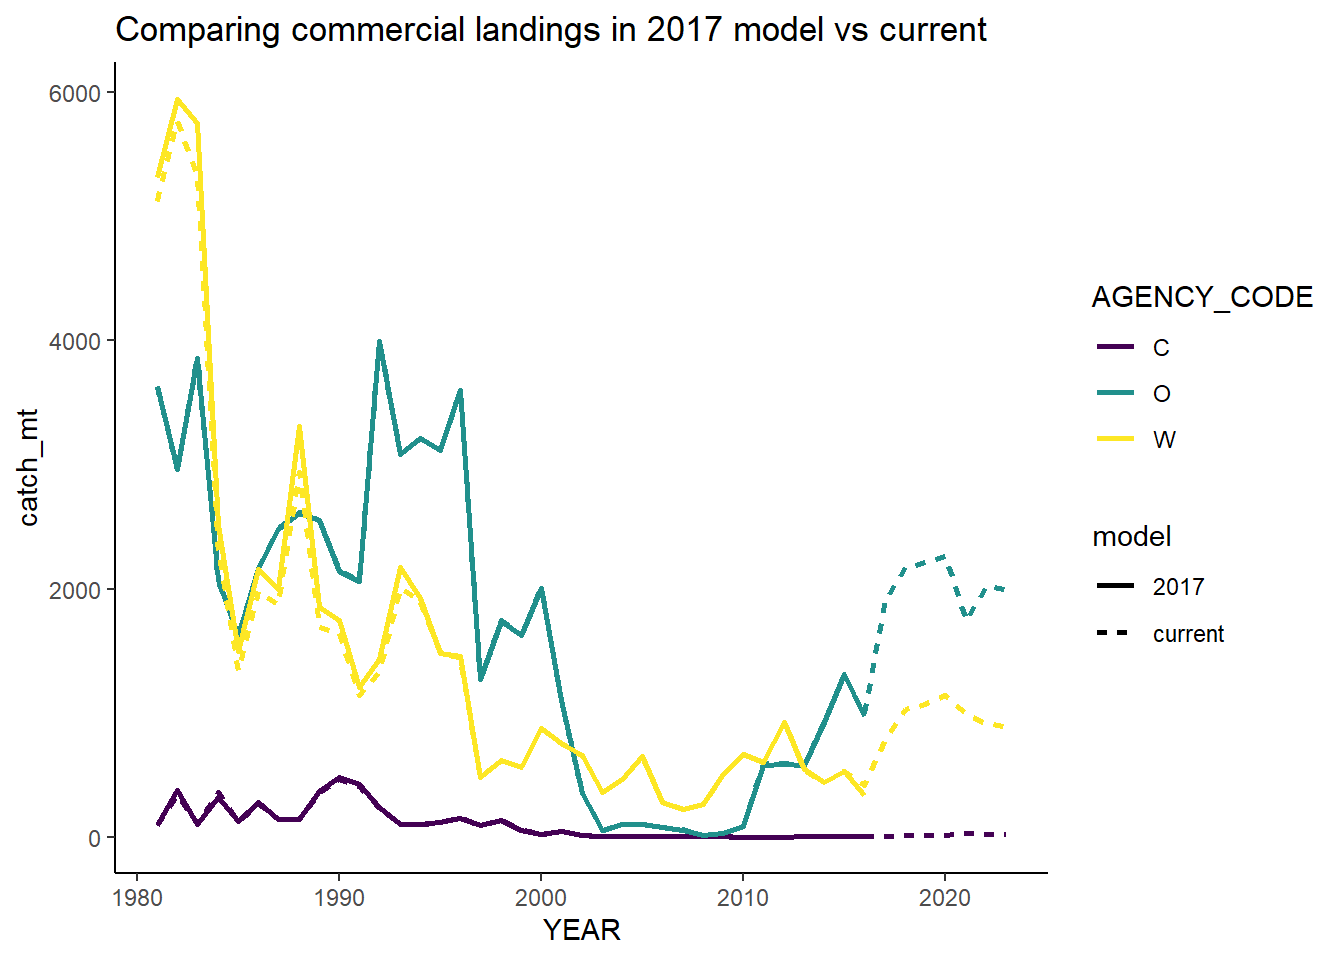
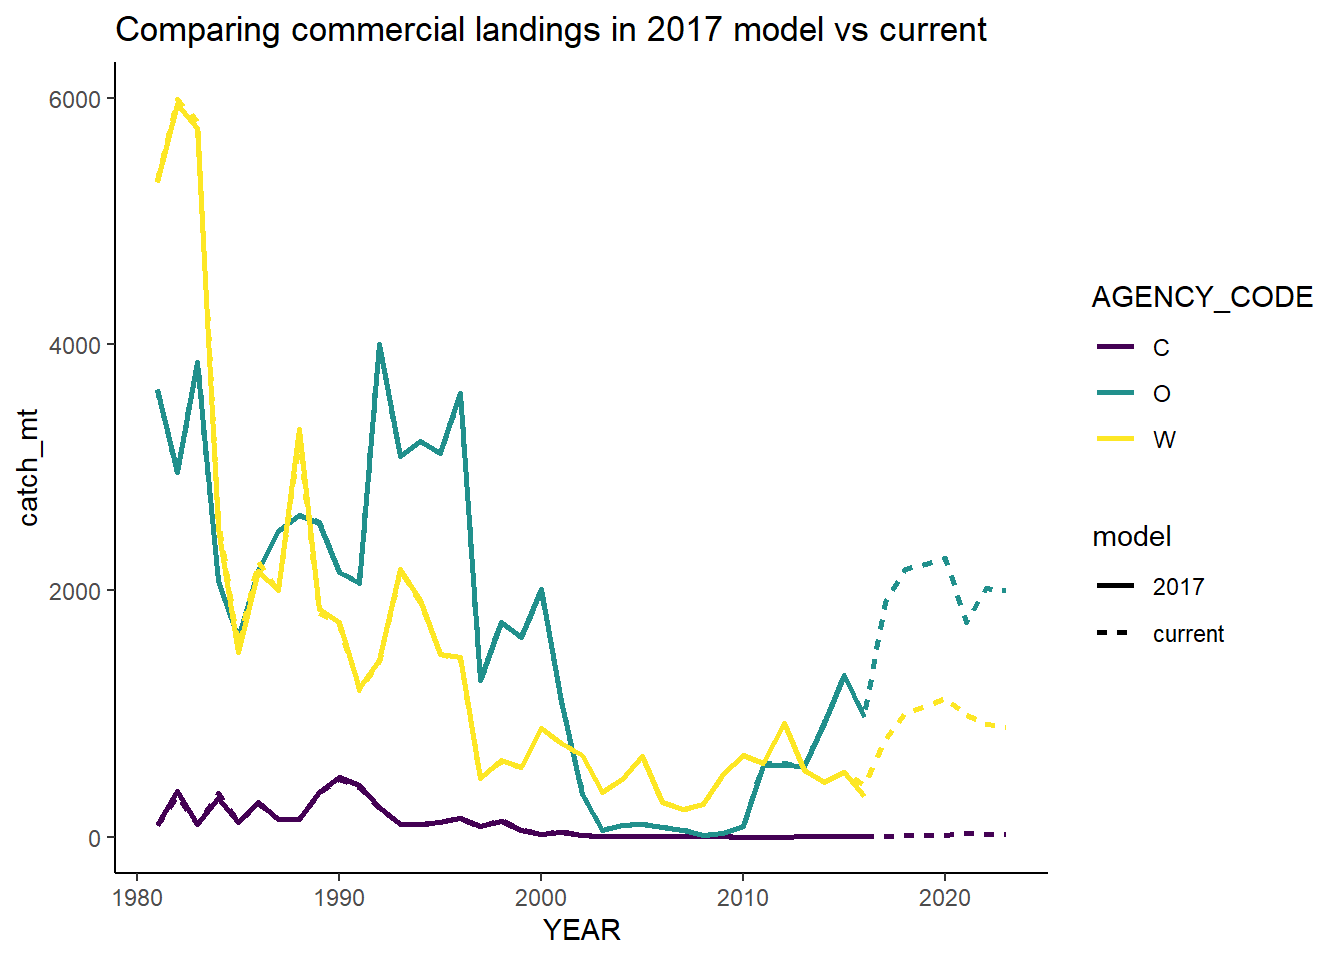
get 2023 CA length data, working through WA comm catches

diff --git a/docs/index.html b/docs/index.html
@@ -93,7 +93,7 @@ ul.task-list li input[type="checkbox"] {
 <section id="commercial-landings" class="level3">
 <h3 class="anchored" data-anchor-id="commercial-landings">Commercial landings</h3>
 <p>Some summary figures:</p>
-<div class="cell" data-hash="data_summary_doc_cache/html/pacfin-catch_144afba9de0326475e45c80e4e70d7a6">
+<div class="cell" data-hash="data_summary_doc_cache/html/pacfin-catch_29edef1b07364eb8e0e56ce0e7b98a7c">
 <div class="cell-output-display">
 <p><img src="data_summary_doc_files/figure-html/pacfin-catch-1.png" class="img-fluid" width="672"></p>
 </div>
@@ -110,7 +110,7 @@ ul.task-list li input[type="checkbox"] {
 <p><img src="data_summary_doc_files/figure-html/pacfin-catch-5.png" class="img-fluid" width="672"></p>
 </div>
 </div>
-<p>URCK/UPOP = sum of RoundPounds_AfterComps for Species_AfterComps = YTR1 or YTRK, converted to mt.</p>
+<p>URCK/UPOP = sum of RoundPounds_AfterComps for Species_AfterComps = YTR1 or YTRK, converted to mt. This is used <em>instead of</em> PacFIN catches prior to 2000.</p>
 <p>Table of commercial landings by state, 1981 onward.</p>
 <div class="cell">
 <div class="cell-output-display">
@@ -128,115 +128,115 @@ ul.task-list li input[type="checkbox"] {
 <td style="text-align: left;">1981</td>
 <td style="text-align: left;">94.4</td>
 <td style="text-align: left;">3633.5</td>
-<td style="text-align: left;">5128.3</td>
+<td style="text-align: left;">5325.9</td>
 </tr>
 <tr class="even">
 <td style="text-align: left;">1982</td>
 <td style="text-align: left;">331.4</td>
 <td style="text-align: left;">2960.2</td>
-<td style="text-align: left;">5769.4</td>
+<td style="text-align: left;">5993.4</td>
 </tr>
 <tr class="odd">
 <td style="text-align: left;">1983</td>
 <td style="text-align: left;">105.3</td>
 <td style="text-align: left;">3857.1</td>
-<td style="text-align: left;">5326.6</td>
+<td style="text-align: left;">5812.9</td>
 </tr>
 <tr class="even">
 <td style="text-align: left;">1984</td>
 <td style="text-align: left;">357.7</td>
 <td style="text-align: left;">2071.7</td>
-<td style="text-align: left;">2311.8</td>
+<td style="text-align: left;">2574.5</td>
 </tr>
 <tr class="odd">
 <td style="text-align: left;">1985</td>
 <td style="text-align: left;">120.2</td>
 <td style="text-align: left;">1613.9</td>
-<td style="text-align: left;">1347.0</td>
+<td style="text-align: left;">1550.5</td>
 </tr>
 <tr class="even">
 <td style="text-align: left;">1986</td>
 <td style="text-align: left;">268.9</td>
 <td style="text-align: left;">2163.1</td>
-<td style="text-align: left;">1982.7</td>
+<td style="text-align: left;">2229.1</td>
 </tr>
 <tr class="odd">
 <td style="text-align: left;">1987</td>
 <td style="text-align: left;">141.6</td>
 <td style="text-align: left;">2484.0</td>
-<td style="text-align: left;">1876.9</td>
+<td style="text-align: left;">1990.4</td>
 </tr>
 <tr class="even">
 <td style="text-align: left;">1988</td>
 <td style="text-align: left;">144.7</td>
 <td style="text-align: left;">2613.8</td>
-<td style="text-align: left;">2943.5</td>
+<td style="text-align: left;">3231.7</td>
 </tr>
 <tr class="odd">
 <td style="text-align: left;">1989</td>
 <td style="text-align: left;">354.0</td>
 <td style="text-align: left;">2551.0</td>
-<td style="text-align: left;">1689.3</td>
+<td style="text-align: left;">1814.4</td>
 </tr>
 <tr class="even">
 <td style="text-align: left;">1990</td>
 <td style="text-align: left;">466.4</td>
 <td style="text-align: left;">2147.3</td>
-<td style="text-align: left;">1639.7</td>
+<td style="text-align: left;">1725.6</td>
 </tr>
 <tr class="odd">
 <td style="text-align: left;">1991</td>
 <td style="text-align: left;">405.8</td>
 <td style="text-align: left;">2066.7</td>
-<td style="text-align: left;">1140.9</td>
+<td style="text-align: left;">1192.4</td>
 </tr>
 <tr class="even">
 <td style="text-align: left;">1992</td>
 <td style="text-align: left;">231.9</td>
 <td style="text-align: left;">3998.1</td>
-<td style="text-align: left;">1327.4</td>
+<td style="text-align: left;">1418.3</td>
 </tr>
 <tr class="odd">
 <td style="text-align: left;">1993</td>
 <td style="text-align: left;">102.3</td>
 <td style="text-align: left;">3090.7</td>
-<td style="text-align: left;">2014.4</td>
+<td style="text-align: left;">2162.2</td>
 </tr>
 <tr class="even">
 <td style="text-align: left;">1994</td>
 <td style="text-align: left;">104.6</td>
 <td style="text-align: left;">3215.4</td>
-<td style="text-align: left;">1900.9</td>
+<td style="text-align: left;">1908.7</td>
 </tr>
 <tr class="odd">
 <td style="text-align: left;">1995</td>
 <td style="text-align: left;">115.9</td>
 <td style="text-align: left;">3113.7</td>
-<td style="text-align: left;">1482.6</td>
+<td style="text-align: left;">1482.7</td>
 </tr>
 <tr class="even">
 <td style="text-align: left;">1996</td>
 <td style="text-align: left;">153.2</td>
 <td style="text-align: left;">3599.3</td>
-<td style="text-align: left;">1451.4</td>
+<td style="text-align: left;">1451.5</td>
 </tr>
 <tr class="odd">
 <td style="text-align: left;">1997</td>
 <td style="text-align: left;">89.6</td>
 <td style="text-align: left;">1271.2</td>
-<td style="text-align: left;">476.5</td>
+<td style="text-align: left;">476.6</td>
 </tr>
 <tr class="even">
 <td style="text-align: left;">1998</td>
 <td style="text-align: left;">132.6</td>
 <td style="text-align: left;">1744.2</td>
-<td style="text-align: left;">617.0</td>
+<td style="text-align: left;">617.1</td>
 </tr>
 <tr class="odd">
 <td style="text-align: left;">1999</td>
 <td style="text-align: left;">60.9</td>
 <td style="text-align: left;">1624.2</td>
-<td style="text-align: left;">563.3</td>
+<td style="text-align: left;">563.6</td>
 </tr>
 <tr class="even">
 <td style="text-align: left;">2000</td>
@@ -296,7 +296,7 @@ ul.task-list li input[type="checkbox"] {
 <td style="text-align: left;">2009</td>
 <td style="text-align: left;">0.6</td>
 <td style="text-align: left;">32.4</td>
-<td style="text-align: left;">506.3</td>
+<td style="text-align: left;">506.2</td>
 </tr>
 <tr class="even">
 <td style="text-align: left;">2010</td>
@@ -344,31 +344,31 @@ ul.task-list li input[type="checkbox"] {
 <td style="text-align: left;">2017</td>
 <td style="text-align: left;">4.0</td>
 <td style="text-align: left;">1908.6</td>
-<td style="text-align: left;">790.0</td>
+<td style="text-align: left;">789.7</td>
 </tr>
 <tr class="even">
 <td style="text-align: left;">2018</td>
 <td style="text-align: left;">11.0</td>
 <td style="text-align: left;">2170.4</td>
-<td style="text-align: left;">1026.3</td>
+<td style="text-align: left;">1015.4</td>
 </tr>
 <tr class="odd">
 <td style="text-align: left;">2019</td>
 <td style="text-align: left;">11.2</td>
 <td style="text-align: left;">2214.1</td>
-<td style="text-align: left;">1070.2</td>
+<td style="text-align: left;">1064.2</td>
 </tr>
 <tr class="even">
 <td style="text-align: left;">2020</td>
 <td style="text-align: left;">14.0</td>
 <td style="text-align: left;">2264.3</td>
-<td style="text-align: left;">1141.6</td>
+<td style="text-align: left;">1128.7</td>
 </tr>
 <tr class="odd">
 <td style="text-align: left;">2021</td>
 <td style="text-align: left;">28.1</td>
 <td style="text-align: left;">1745.7</td>
-<td style="text-align: left;">986.9</td>
+<td style="text-align: left;">983.8</td>
 </tr>
 <tr class="even">
 <td style="text-align: left;">2022</td>
@@ -999,7 +999,7 @@ ul.task-list li input[type="checkbox"] {
 <section id="commercial" class="level3">
 <h3 class="anchored" data-anchor-id="commercial">Commercial</h3>
 <p>Initial length sample sizes after running <code>PacFIN.Utilities::cleanPacFIN()</code>:</p>
-<div class="cell" data-hash="data_summary_doc_cache/html/comm-bio_257620d1f3f2c9faf2cf9f54cf73b453">
+<div class="cell" data-hash="data_summary_doc_cache/html/comm-bio_2668abac0d099bc72a3c1078e7275134">
 <div class="cell-output cell-output-stdout">
 <pre><code>  AGE_METHOD1 AGE_METHOD2 AGE_METHOD3 Age method for best age      n
 1           B           B           B                       B   2346
@@ -1010,7 +1010,7 @@ ul.task-list li input[type="checkbox"] {
 6           L        &lt;NA&gt;        &lt;NA&gt;                       L      1
 7           S        &lt;NA&gt;        &lt;NA&gt;                       S  17942
 8           T        &lt;NA&gt;        &lt;NA&gt;                       T      2
-9        &lt;NA&gt;        &lt;NA&gt;        &lt;NA&gt;                    &lt;NA&gt;  81690</code></pre>
+9        &lt;NA&gt;        &lt;NA&gt;        &lt;NA&gt;                    &lt;NA&gt;  82197</code></pre>
 </div>
 <div class="cell-output-display">
 <table class="table table-sm table-striped">
@@ -1397,10 +1397,10 @@ ul.task-list li input[type="checkbox"] {
 </tr>
 <tr class="even">
 <td style="text-align: left;">2021</td>
-<td style="text-align: left;">603</td>
+<td style="text-align: left;">633</td>
 <td style="text-align: left;">1815</td>
 <td style="text-align: left;">1157</td>
-<td style="text-align: left;">3575</td>
+<td style="text-align: left;">3605</td>
 </tr>
 <tr class="odd">
 <td style="text-align: left;">2022</td>
@@ -1411,10 +1411,10 @@ ul.task-list li input[type="checkbox"] {
 </tr>
 <tr class="even">
 <td style="text-align: left;">2023</td>
-<td style="text-align: left;">0</td>
+<td style="text-align: left;">302</td>
 <td style="text-align: left;">2145</td>
 <td style="text-align: left;">1415</td>
-<td style="text-align: left;">3560</td>
+<td style="text-align: left;">3862</td>
 </tr>
 </tbody>
 </table>
